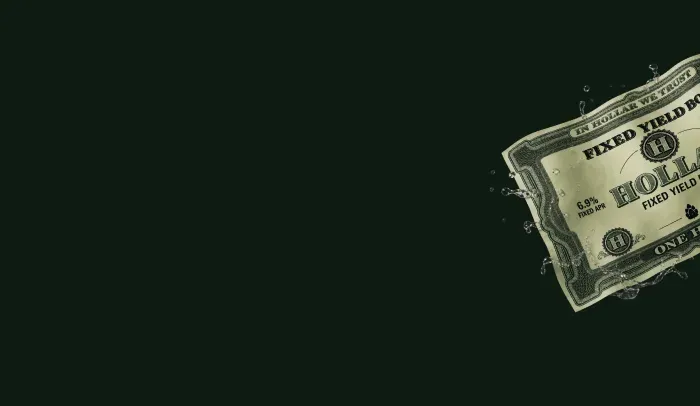
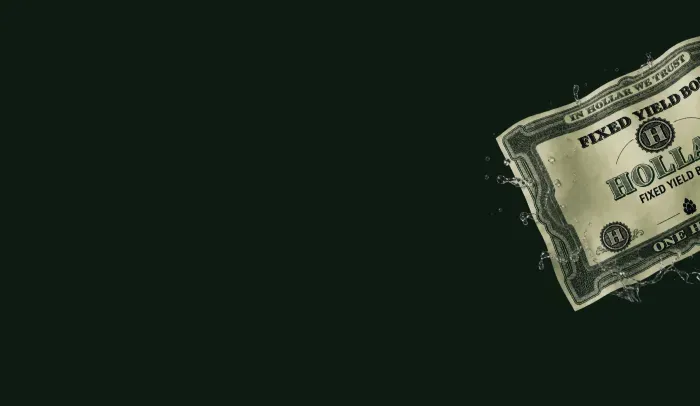
Stable Bonds dynamic APR

Changed region(s): [[0.69, 0.0887, 1.0, 0.7685]]

diff --git a/apps/main/src/states/banners.ts b/apps/main/src/states/banners.ts
@@ -1,13 +1,20 @@
 import { type PromoteBannerItem } from "@galacticcouncil/ui/components"
+import { HOLLAR_BOND_25_08_26_ID } from "@galacticcouncil/utils"
+import type { ParseKeys } from "i18next"
 import { useMemo } from "react"
+import { useTranslation } from "react-i18next"
 import { create } from "zustand"
 import { persist } from "zustand/middleware"
 
+import { useBondData } from "@/api/bonds"
 import { LINKS } from "@/config/navigation"
 import { useHasFillableStableBondsOrders } from "@/modules/strategies/stable-bonds/hooks/useStableBondsOtcOrders"
+import { getBondApr } from "@/modules/strategies/stable-bonds/utils/apr"
 import { useRpcProvider } from "@/providers/rpcProvider"
 
-type BannerConfig = PromoteBannerItem & {
+type BannerConfig = Omit<PromoteBannerItem, "title" | "description"> & {
+  title: ParseKeys<"common">
+  description?: ParseKeys<"common">
   to?: string
   priority: number
   enabled: boolean
@@ -18,8 +25,8 @@ const bannerEntries: BannerConfig[] = [
     id: "hollarb",
     backgroundImage: "/images/hollarb.webp",
     backgroundImageMobile: "/images/hollarbMobile.webp",
-    title: "Introducing fixed yield Hollar bonds",
-    description: "Earn 6.9% APR with fixed-term HOLLAR bonds.",
+    title: "banners.hollarb.title",
+    description: "banners.hollarb.description",
     textColor: "#FFF",
     ctaColor: "#B3D7FA",
     ctaTextColor: "#0D1525",
@@ -31,18 +38,40 @@ const bannerEntries: BannerConfig[] = [
 ]
 
 export const useEnabledBanners = () => {
+  const { t } = useTranslation("common")
   const { featureFlags } = useRpcProvider()
   const hasFillableStableBondsOrders = useHasFillableStableBondsOrders()
+  const { timeLeft } = useBondData(HOLLAR_BOND_25_08_26_ID)
+  const apr = getBondApr(HOLLAR_BOND_25_08_26_ID, timeLeft)
 
   return useMemo(() => {
-    return bannerEntries.filter((banner) => {
-      if (banner.id === "hollarb") {
-        return featureFlags.hollarBondsEnabled && hasFillableStableBondsOrders
-      }
+    return bannerEntries
+      .filter((banner) => {
+        if (banner.id === "hollarb") {
+          return featureFlags.hollarBondsEnabled && hasFillableStableBondsOrders
+        }
 
-      return banner.enabled
-    })
-  }, [featureFlags.hollarBondsEnabled, hasFillableStableBondsOrders])
+        return banner.enabled
+      })
+      .map((banner) => {
+        const description = (() => {
+          if (banner.id === "hollarb" && banner.description) {
+            return apr ? t(banner.description, { apr }) : ""
+          }
+
+          if (banner.description) {
+            return t(banner.description)
+          }
+
+          return undefined
+        })()
+        return {
+          ...banner,
+          title: t(banner.title),
+          description,
+        }
+      })
+  }, [apr, featureFlags.hollarBondsEnabled, hasFillableStableBondsOrders, t])
 }
 
 export const bannerConfig: BannerConfig[] = [...bannerEntries].sort(

diff --git a/apps/main/src/modules/strategies/stable-bonds/components/StableBondsAbout.tsx b/apps/main/src/modules/strategies/stable-bonds/components/StableBondsAbout.tsx
@@ -6,25 +6,29 @@ import {
 } from "@galacticcouncil/ui/components"
 import { useTranslation } from "react-i18next"
 
+import { useBondData } from "@/api/bonds"
 import { Markdown } from "@/components/Markdown"
 import { useStableBondsConfig } from "@/modules/strategies/stable-bonds/context/StableBondsConfigContext"
+import { getBondApr } from "@/modules/strategies/stable-bonds/utils/apr"
 import { useAssets } from "@/providers/assetsProvider"
 
 export const StableBondsAbout: React.FC<PaperProps> = (props) => {
-  const { t } = useTranslation("strategies")
+  const { t } = useTranslation(["common", "strategies"])
   const config = useStableBondsConfig()
   const { getBond, getAssetWithFallback } = useAssets()
   const bond = getBond(config.bondId)
+  const { timeLeft } = useBondData(config.bondId)
 
   if (!config.contentId || !bond) return null
 
   const underlyingAsset = getAssetWithFallback(bond.underlyingAssetId)
+  const apr = getBondApr(config.bondId, timeLeft)
 
   return (
     <Paper p="xl" {...props}>
       <SectionHeader
-        title={t("about.title", {
-          suffix: t("bonds.title.stableYieldBonds", {
+        title={t("strategies:about.title", {
+          suffix: t("strategies:bonds.title.stableYieldBonds", {
             symbol: underlyingAsset.symbol,
           }),
         })}
@@ -32,7 +36,16 @@ export const StableBondsAbout: React.FC<PaperProps> = (props) => {
         noTopPadding
       />
       <Separator mx="-xl" mb="xl" />
-      <Markdown id={config.contentId} muted size="small" />
+      <Markdown
+        id={config.contentId}
+        muted
+        size="small"
+        values={{
+          apr: apr
+            ? t("common:percent", { value: apr, minimumFractionDigits: 2 })
+            : "",
+        }}
+      />
     </Paper>
   )
 }

diff --git a/apps/main/src/modules/strategies/stable-bonds/utils/apr.ts b/apps/main/src/modules/strategies/stable-bonds/utils/apr.ts
@@ -1,0 +1,15 @@
+import { daysInYear, millisecondsInDay } from "date-fns/constants"
+
+import { STABLE_BONDS } from "@/modules/strategies/stable-bonds/config/bonds"
+
+export const getBondApr = (
+  bondId: string,
+  timeLeftMs: number,
+): number | null => {
+  const config = STABLE_BONDS[bondId]
+  if (!config) return null
+  const { fixedYield } = config
+  const daysLeft =
+    timeLeftMs > 0 ? Math.ceil(timeLeftMs / millisecondsInDay) : 0
+  return daysLeft > 0 ? (fixedYield / daysLeft) * daysInYear : null
+}

diff --git a/apps/main/src/components/Markdown/Markdown.tsx b/apps/main/src/components/Markdown/Markdown.tsx
@@ -14,9 +14,10 @@ import { mdx } from "@/i18n/content"
 
 export type MarkdownProps = ProseProps & {
   id: string
+  values?: Record<string, string | number>
 }
 
-export const Markdown: React.FC<MarkdownProps> = ({ id, ...props }) => {
+export const Markdown: React.FC<MarkdownProps> = ({ id, values, ...props }) => {
   const { i18n } = useTranslation()
   const locale = i18n.language
 
@@ -47,7 +48,7 @@ export const Markdown: React.FC<MarkdownProps> = ({ id, ...props }) => {
               ),
           }}
         >
-          <Mdx />
+          <Mdx {...values} />
         </MDXProvider>
       </Prose>
     </Suspense>

diff --git a/apps/main/src/modules/strategies/stable-bonds/components/StableBondsDeposit.tsx b/apps/main/src/modules/strategies/stable-bonds/components/StableBondsDeposit.tsx
@@ -54,8 +54,8 @@ export const StableBondsDeposit: React.FC<StableBondsDepositProps> = ({
   const rpc = useRpcProvider()
   const submit = useSubmitStableBondsOrder()
   const { getAssetWithFallback } = useAssets()
-  const stableBond = useStableBondsConfig()
-  const { timeLeft } = useBondData(stableBond.bondId)
+  const config = useStableBondsConfig()
+  const { timeLeft } = useBondData(config.bondId)
 
   const { data: feePct = "0", isPending: isFeePending } = useQuery(
     otcTradeFeeQuery(rpc),

diff --git a/apps/main/src/modules/strategies/stable-bonds/components/StableBondsDetails.tsx b/apps/main/src/modules/strategies/stable-bonds/components/StableBondsDetails.tsx
@@ -24,6 +24,7 @@ import {
   SStatsGroup,
 } from "@/modules/strategies/stable-bonds/components/StableBondsDetails.styled"
 import { useStableBondsConfig } from "@/modules/strategies/stable-bonds/context/StableBondsConfigContext"
+import { getBondApr } from "@/modules/strategies/stable-bonds/utils/apr"
 import { OtcOffer } from "@/modules/trade/otc/table/OtcTable.query"
 
 export type StableBondsDetailsProps = {
@@ -37,8 +38,7 @@ export const StableBondsDetails: React.FC<StableBondsDetailsProps> = ({
   const config = useStableBondsConfig()
   const { timeLeft } = useBondData(config.bondId)
 
-  const daysLeft = timeLeft > 0 ? Math.ceil(timeLeft / millisecondsInDay) : 0
-  const currentApr = daysLeft > 0 ? (config.fixedYield / daysLeft) * 365 : null
+  const currentApr = getBondApr(config.bondId, timeLeft)
 
   return (
     <Paper p="l">